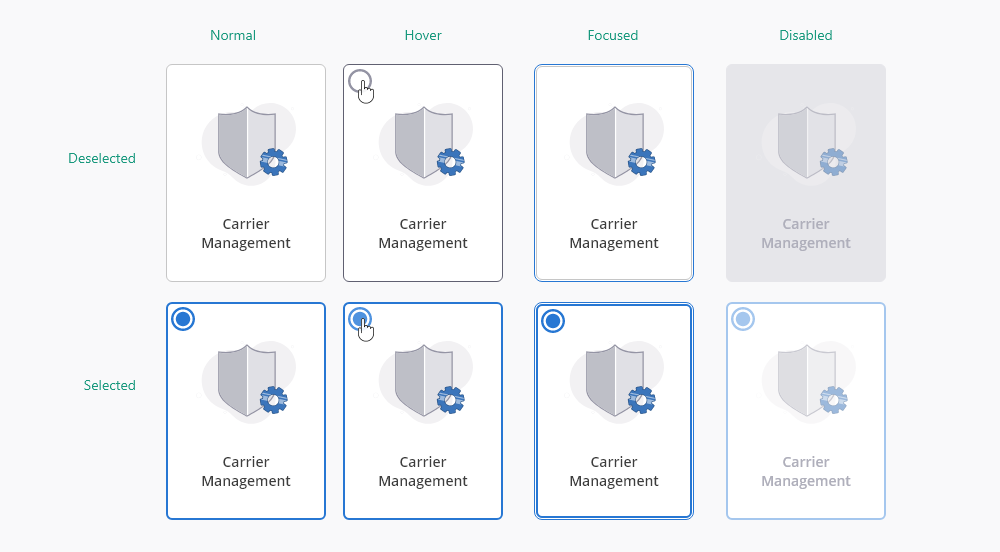
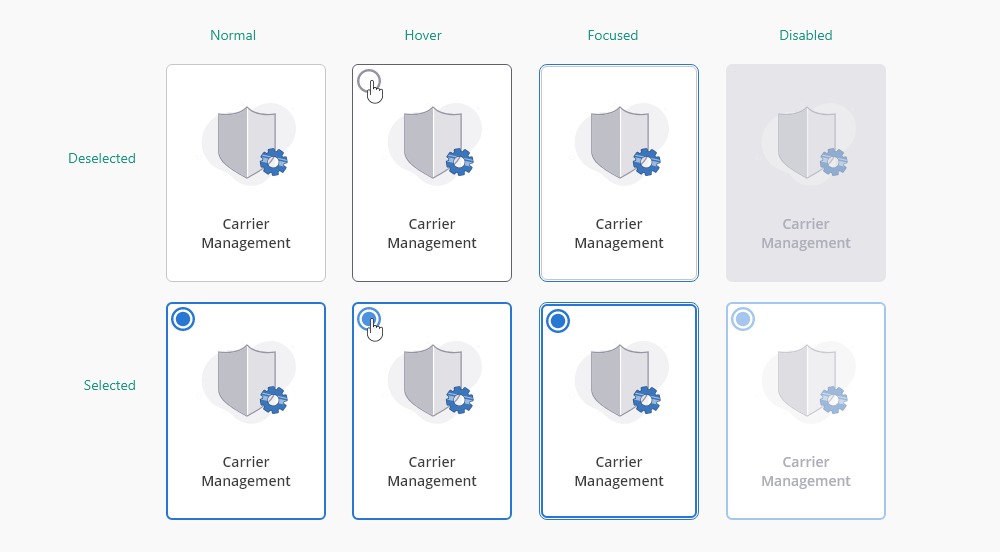
Update component “radio-buttons”

diff --git a/src/_areas/design-system/components/radio-buttons.md b/src/_areas/design-system/components/radio-buttons.md
@@ -94,9 +94,13 @@ Standard Radio Button states
 
 Inline Radio Button states
 
-![Gallery radio buttons states](/images/galleryradio_states.png)
+![Gallery Radio Buttons states](/images/galleryradio_states-–-no-illustrations.png)
 
 Gallery Radio Button states
+
+![Gallery Radio Buttons states - with illustrations](/images/galleryradio_states.png)
+
+Gallery Radio Button states - with illustrations
 
 <br>
 
